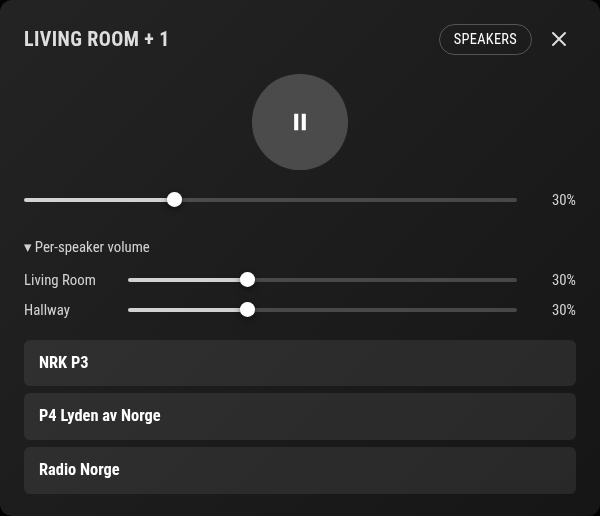
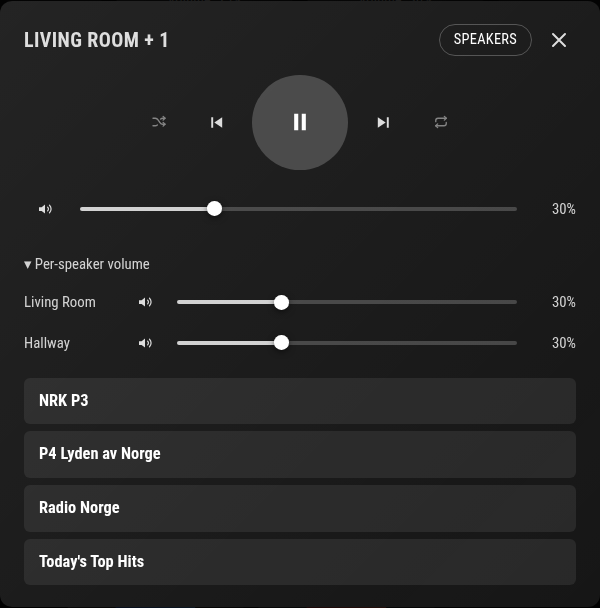
docs: previous/next, shuffle, repeat and mute in README, screenshot and changelog
Claude-Session: https://claude.ai/code/session_01XDXEmqW3DSefSesHbLG9pD

diff --git a/README.md b/README.md
@@ -410,12 +410,16 @@ With `enableControls: true`:
   tapping it lists the hidden zones so you can open one and start playback
   there.
 - Tapping any visible card (playing or idle) opens a control overlay with
-  play/pause, a volume slider, and a list of your Sonos favorites.
+  play/pause, previous/next track, shuffle, repeat (off → all → one), a
+  mute button, a volume slider, and a list of your Sonos favorites.
+  Previous/next, shuffle and repeat are hidden for radio and TV, which have
+  no track list to move through.
 - The volume slider controls the whole group together: every speaker in
   that group is set to the same volume level, not just the coordinator.
 - Once a zone has more than one speaker, a collapsed "▾ Per-speaker volume"
-  section appears below the group slider with one slider per member, for
-  adjusting a single speaker without moving the rest of the group.
+  section appears below the group slider with one slider and one mute
+  button per member, for adjusting a single speaker without changing the
+  rest of the group. The group mute button mutes every speaker in it.
 - A "Speakers" button in the overlay header opens a picker for changing
   group membership: pick another zone to merge every one of its speakers
   into the one you're viewing, or tap "Remove" next to a member to split
@@ -439,7 +443,7 @@ With `enableControls: true`:
 
 ![Touch control mode – cards with idle speakers](docs/touch-cards.png)
 
-**Control overlay (play/pause, group and per-speaker volume, favorites):**
+**Control overlay (playback, shuffle/repeat, mute, group and per-speaker volume, favorites):**
 
 ![Touch control mode – control overlay](docs/touch-overlay.png)
 
@@ -612,9 +616,7 @@ Some ideas for future improvements:
 - ~~Cache album art locally for faster loading on slower networks.~~ ✅ **Completed**
 - ~~Adjust volume on individual speakers in a group, in addition to group volume.~~ ✅ **Completed**
 - ~~Possibility to group and ungroup speakers.~~ ✅ **Completed**
-- Skip to the next/previous track directly from the control overlay, not just play/pause.
 - Add a sleep timer — automatically pause playback after N minutes.
-- Add a mute button per speaker, in addition to the volume slider.
 - Show a small icon per favorite indicating its type (radio, playlist, stream).
 
 ## License

diff --git a/CHANGELOG.md b/CHANGELOG.md
@@ -8,8 +8,12 @@ and this project adheres to [Semantic Versioning](https://semver.org/spec/v2.0.0
 ## [Unreleased]
 
 ### Added
+- **Previous/next, shuffle, repeat and mute in touch control mode** — the control overlay has a transport row (shuffle · previous · play/pause · next · repeat) and mute buttons for the group and for each speaker. Previous/next, shuffle and repeat are hidden for radio and TV.
 - **Touch control mode** (`enableControls: true`, by [@AndreasHagman](https://github.com/AndreasHagman) in #68) — tap a card to open a control overlay with play/pause, group volume, per-speaker volume, grouping/ungrouping of speakers and your Sonos favorites. Idle speakers are shown as cards (`controlShowIdleZones`) or behind a "+" tile. New options: `enableControls`, `controlShowIdleZones`, `favoritesRefreshInterval`, `maxFavorites`, `controlVolumeStep`. Off by default; nothing changes for existing setups.
 - End-to-end test for touch control mode, and control actions in the Sonos simulator.
+
+### Changed
+- After grouping, ungrouping or starting a favorite, the module checks again after 1.5 and 3.5 seconds, so the result shows up as soon as Sonos has finished instead of at the next regular update.
 
 ### Fixed
 - **Playlist and album favorites did not start** in touch control mode ("could not reach speaker"). They are now played through the queue like in the Sonos app, and all favorites are sent with the metadata Sonos stores for them.
